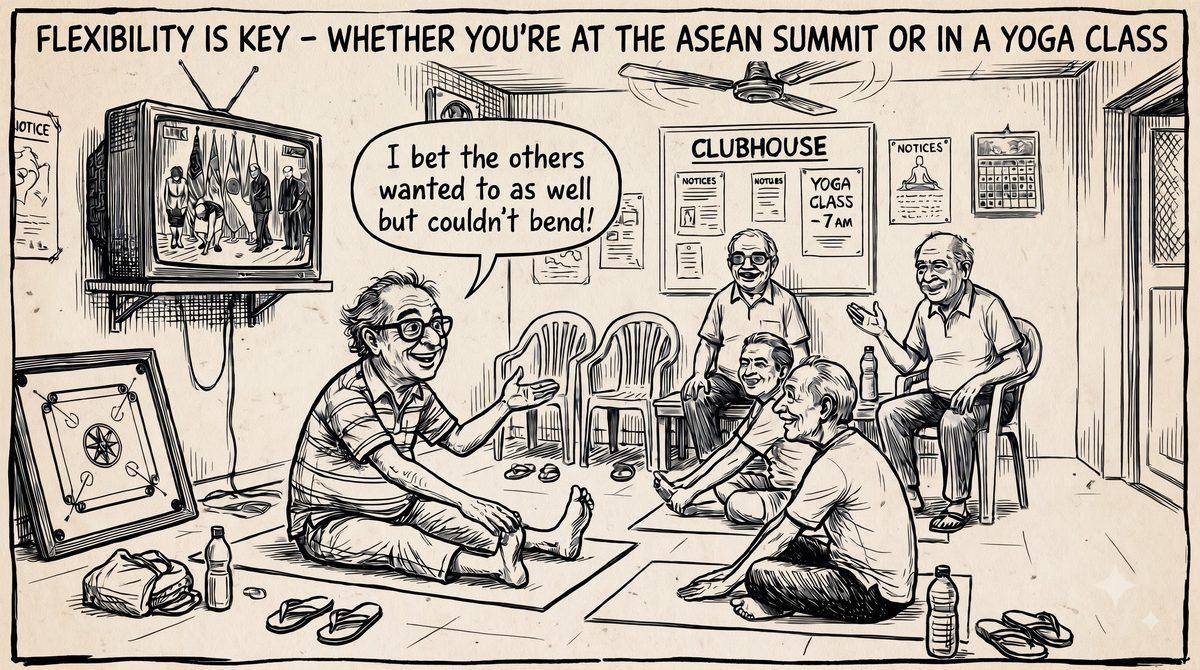
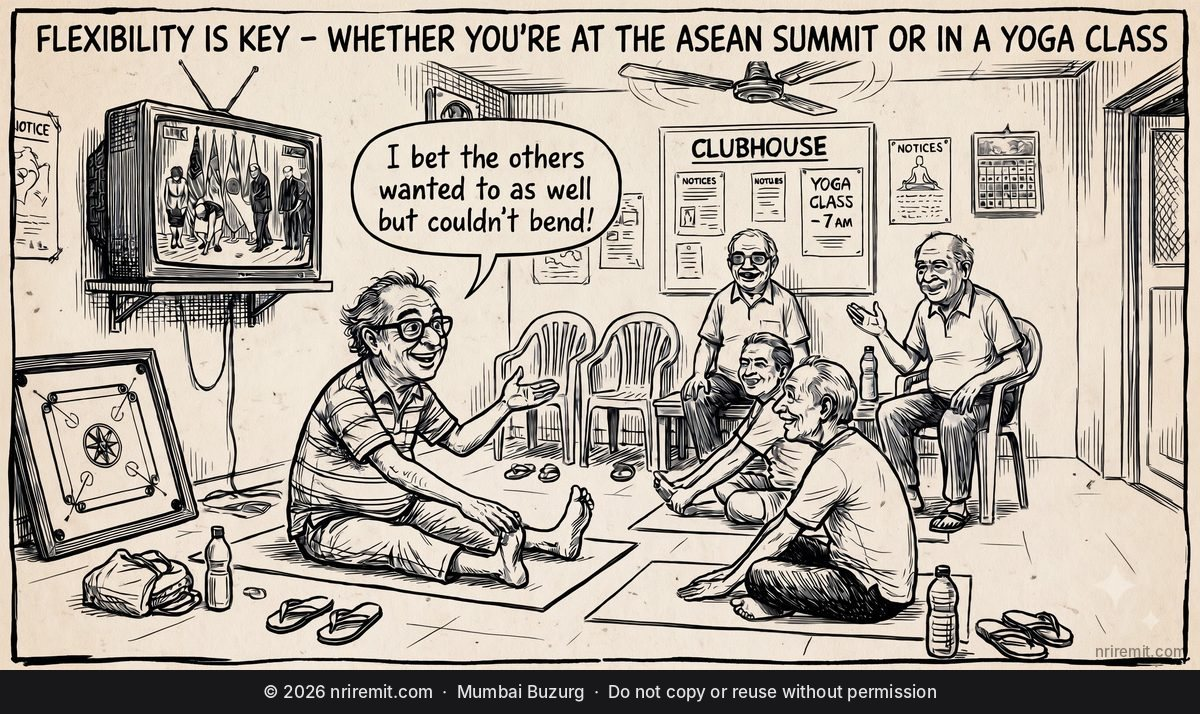
Mumbai Buzurg: copyright band on strips, AI/credits disclaimer, footer script
Claude-Session: https://claude.ai/code/session_01CXABwXB2Fdi89djFUCvyCJ

diff --git a/mumbai-buzurg.html b/mumbai-buzurg.html
@@ -159,7 +159,7 @@
     <p class="sub">Narayan Uncle is a retired bank man from Udupi, settled in Ghatkopar East. In the tradition of R.K. Laxman's Common Man.</p>
   </div>
   <div class="uncle-strip">
-    <img src="assets/cartoon-yoga.jpg" width="1200" height="670" alt="Black-and-white cartoon: Narayan Uncle stretches on a yoga mat in a housing-society clubhouse, telling his friends he bets the other leaders on the TV summit wanted to bend too but couldn't." loading="lazy">
+    <img src="assets/cartoon-yoga.jpg" width="1200" height="714" alt="Black-and-white cartoon: Narayan Uncle stretches on a yoga mat in a housing-society clubhouse, telling his friends he bets the other leaders on the TV summit wanted to bend too but couldn't." loading="lazy">
     <p style="margin:10px 4px 0;font-size:13px;color:#475569"><strong style="color:#b45309;letter-spacing:.06em;text-transform:uppercase;font-size:11px">Latest strip</strong> · Flexibility is key · <time datetime="2026-11-21">21 Nov 2026</time></p>
   </div>
 </section>
@@ -181,22 +181,22 @@
   <h3 class="archive-head">Archive</h3>
   <div class="strip-archive">
     <figure class="cartoon">
-      <img src="assets/cartoon-hoardings.jpg" width="1200" height="896" alt="Black-and-white cartoon: a flyover pillar wrapped in layers of festival greeting hoardings, a worker cutting one down while a young man ties up the next, and Narayan Uncle looking on." loading="lazy">
+      <img src="assets/cartoon-hoardings.jpg" width="1200" height="940" alt="Black-and-white cartoon: a flyover pillar wrapped in layers of festival greeting hoardings, a worker cutting one down while a young man ties up the next, and Narayan Uncle looking on." loading="lazy">
       <figcaption><span><strong>The hoardings</strong></span><span class="cartoon-note">Published <time datetime="2026-11-15">15 November 2026</time></span><span class="cartoon-note" style="display:block">Behind the strip: the BMC's festive-season drive removed thousands of illegal banners and hoardings, and only about 15 FIRs followed (<a href="https://www.freepressjournal.in/mumbai/mumbai-bmc-removes-12396-illegal-banners-and-posters-during-festive-season-drive-only-15-firs-filed" target="_blank" rel="noopener">Free Press Journal, 12 Nov</a>).</span></figcaption>
     </figure>
     <figure class="cartoon">
-      <img src="assets/cartoon-queue.jpg" width="1200" height="669" alt="Black-and-white cartoon of a polling-booth queue: an angry elderly man tells a large man in a kurta, who has walked past the line, to go back to the end of it." loading="lazy">
+      <img src="assets/cartoon-queue.jpg" width="1200" height="714" alt="Black-and-white cartoon of a polling-booth queue: an angry elderly man tells a large man in a kurta, who has walked past the line, to go back to the end of it." loading="lazy">
       <figcaption><span><strong>Polling-day queue etiquette</strong></span><span class="cartoon-note">Published <time datetime="2026-11-05">5 November 2026</time></span></figcaption>
     </figure>
     <figure class="cartoon">
-      <img src="assets/leftover-citizen-ep01.jpg" width="1200" height="669" alt="Four-panel comic: an uncle watches Mumbai's Metro Line 4 pillars sprout a forest and decides nature found a way." loading="lazy">
+      <img src="assets/leftover-citizen-ep01.jpg" width="1200" height="713" alt="Four-panel comic: an uncle watches Mumbai's Metro Line 4 pillars sprout a forest and decides nature found a way." loading="lazy">
       <figcaption><span><strong>The Never-Ending Metro 4</strong></span><span class="cartoon-note">Published <time datetime="2026-11-01">1 November 2026</time></span></figcaption>
     </figure>
   </div>
 </section>
 
 <div class="disclaimer">
-  <strong>About the strips.</strong> Fiction. Narayan Uncle is a character, not a real person. Any resemblance to actual uncles reconciling passbooks over filter coffee in Ghatkopar East is deeply intentional and done with love.
+  <strong>About the strips.</strong> Fiction. Narayan Uncle is a character, not a real person. Any resemblance to actual uncles reconciling passbooks over filter coffee in Ghatkopar East is deeply intentional and done with love.<br><br><strong>Credits &amp; AI.</strong> The concept, script, character and captions are by the nriremit.com site owner. The illustrations are generated with AI tools from that direction and then edited. &copy; 2026 nriremit.com. All rights reserved: please don&#8217;t copy, republish or reuse the strips without permission. Sharing a link to this page is always welcome.
 </div>
 
 </div>

diff --git a/index.html b/index.html
@@ -110,7 +110,7 @@
         <span class="citizen-sidebar-eyebrow">Mumbai <em class="slant">Buzurg</em></span>
         <span class="citizen-sidebar-ep">Latest · 21 Nov</span>
       </div>
-      <img src="assets/cartoon-yoga.jpg" width="1200" height="670" alt="Latest Mumbai Buzurg strip — Narayan Uncle stretches in a clubhouse yoga class and jokes about leaders who couldn't bend" loading="lazy">
+      <img src="assets/cartoon-yoga.jpg" width="1200" height="714" alt="Latest Mumbai Buzurg strip — Narayan Uncle stretches in a clubhouse yoga class and jokes about leaders who couldn't bend" loading="lazy">
       <div class="citizen-sidebar-foot">
         <span>Read full strip</span>
         <span class="arrow">→</span>

diff --git a/scripts/add_strip_footer.py b/scripts/add_strip_footer.py
@@ -1,0 +1,40 @@
+#!/usr/bin/env python3
+"""Add the nriremit.com copyright band and metadata to a Mumbai Buzurg strip.
+
+Usage: python3 scripts/add_strip_footer.py assets/cartoon-NAME.jpg [...]
+Run ONCE per new strip image (it skips files already marked). Then set the
+<img> height attribute to the new image height (printed).
+"""
+import sys, datetime
+from PIL import Image, ImageDraw, ImageFont
+
+YEAR = datetime.date.today().year
+LINE = f"© {YEAR} nriremit.com  ·  Mumbai Buzurg  ·  Do not copy or reuse without permission"
+MARK = f"© {YEAR} nriremit.com"
+BAND = 44
+FONT = "/usr/share/fonts/opentype/inter/Inter-Medium.otf"
+
+for path in sys.argv[1:]:
+    im = Image.open(path)
+    if "nriremit.com" in str(im.getexif().get(0x8298, "")):
+        print("skip (already marked):", path); continue
+    im = im.convert("RGB")
+    w, h = im.size
+    out = Image.new("RGB", (w, h + BAND), (24, 24, 27))
+    out.paste(im, (0, 0))
+    d = ImageDraw.Draw(out)
+    f = ImageFont.truetype(FONT, 17)
+    tw = d.textlength(LINE, font=f)
+    d.text(((w - tw) / 2, h + (BAND - 17) / 2 - 2), LINE, font=f, fill=(228, 228, 231))
+    # faint corner mark on the artwork itself
+    ov = Image.new("RGBA", out.size, (0, 0, 0, 0))
+    od = ImageDraw.Draw(ov)
+    f2 = ImageFont.truetype(FONT, 15)
+    t = "nriremit.com"
+    od.text((w - d.textlength(t, font=f2) - 14, h - 28), t, font=f2, fill=(0, 0, 0, 110))
+    out = Image.alpha_composite(out.convert("RGBA"), ov).convert("RGB")
+    ex = Image.Exif()
+    ex[0x8298] = MARK + ". All rights reserved."
+    ex[0x013B] = "nriremit.com site owner"
+    out.save(path, quality=84, optimize=True, progressive=True, exif=ex)
+    print(path, out.size)
